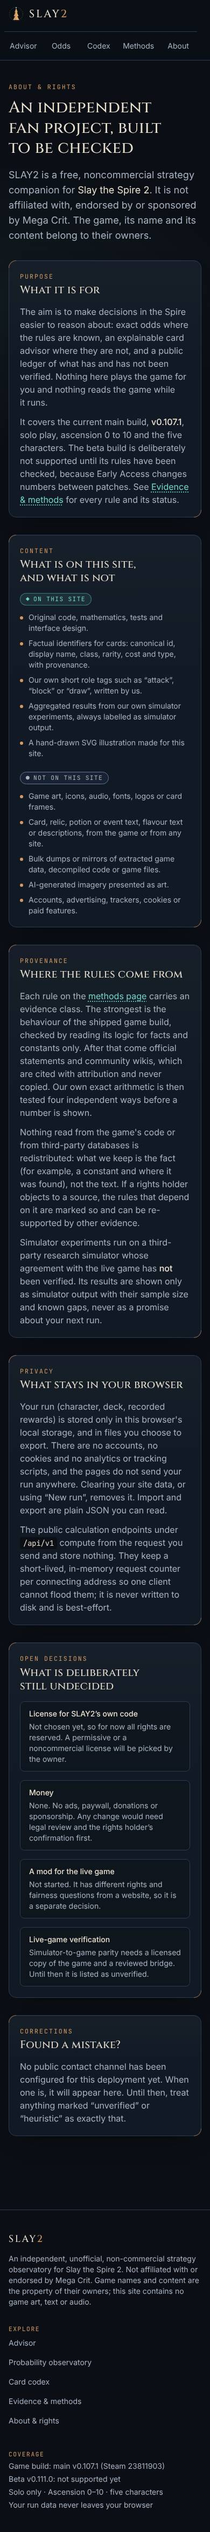
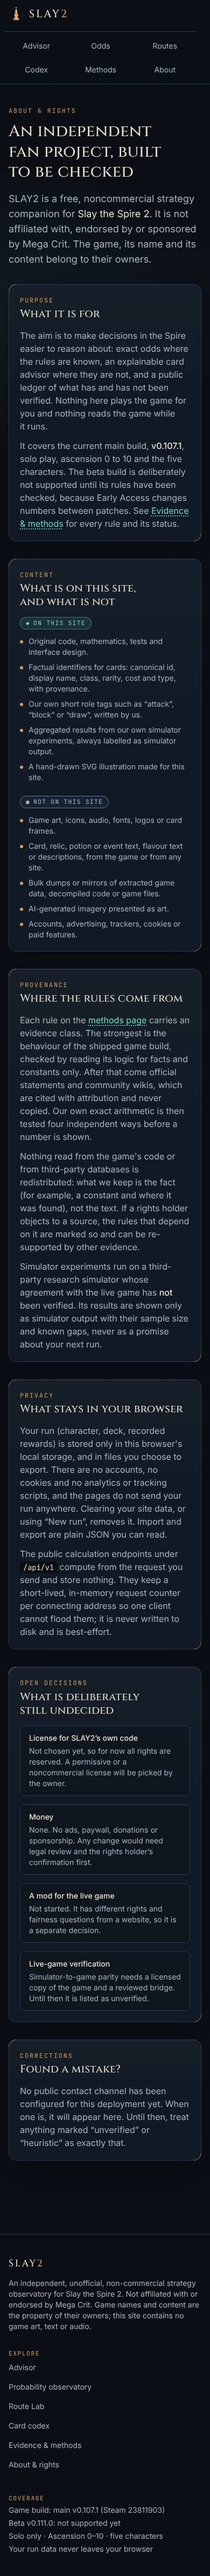
docs: production screenshots of the final UI (Route Lab added; the two long pages from the top only, 2.8 MB in all instead of 4.4 MB); status with the browser-suite counts
Claude-Session: https://claude.ai/code/session_01RqMSFQo8B4Ec4zNvTUumL3

diff --git a/docs/STATUS.md b/docs/STATUS.md
@@ -34,7 +34,7 @@
 | Suite | Command | Result |
 |---|---|---|
 | TypeScript, all packages + web | `pnpm check` (typecheck, lint, prettier, tests, production build) | green: game-schema 6, game-data 13, odds 100, decision 19, web 198 = **336 tests** (adds the route engine with its oracle cases and brute force, the route calculator's limits, the shorthand parser, the measured-value helpers, the simulation-pick port checked against 80 golden cases from the Python policy, the wins gate of the exporter, the comparison endpoint) |
-| End to end on the production server (`next start`), desktop + mobile, axe WCAG 2.2 AA | `pnpm --filter @slay2/web e2e` | landing, odds, advisor journey incl. the simulated-runs second opinion (every class is checked against what the shipped data says about it: Ironclad and Silent give the opinion, the others say why they do not), the scripted visitor journey, codex (measured value tile and sort), methods (card-value panel), about, 404, navigation, security headers: Route Lab (22 tests: example, typing, link persistence, hidden counters, Poverty, impossible histories, exact fractions, axe, overflow); layout stability (20: the shift of each page under a slow network, the server-drawn advisor), a width sweep from 320 to 1280 px (59: sideways scroll, cut-off text, the header with a saved run), no-JavaScript (2); the whole suite (266 cases, of which 59 are the width sweep that runs in the mobile project only, so 207 run) passes on the final build in a clean checkout and in CI (3.5 min) |
+| End to end on the production server (`next start`), desktop + mobile, axe WCAG 2.2 AA | `pnpm --filter @slay2/web e2e` | landing, odds, advisor journey incl. the simulated-runs second opinion (every class is checked against what the shipped data says about it: Ironclad and Silent give the opinion, the others say why they do not), the scripted visitor journey, codex (measured value tile and sort), methods (card-value panel), about, 404, navigation, security headers: Route Lab (22 tests: example, typing, link persistence, hidden counters, Poverty, impossible histories, exact fractions, axe, overflow); layout stability (20: the shift of each page under a slow network, the server-drawn advisor), a width sweep from 320 to 1280 px (84: sideways scroll, cut-off text, the header with a saved run, every class selected), rich states and enlarged text (42), no-JavaScript (2), privacy (1: one origin, no cookies, no request that carries data), the link-preview image (1); the whole suite (404 cases, of which 126 are the sweeps that run in the mobile project only, so 278 run) passes on the final build in a clean checkout (274 of 400 run at `85610d0`; the privacy and preview cases were added after) and in CI |
 | Python research harness | `PYTHONPATH=sim python -m pytest sim/tests` | **185 passed, 1 strict xfail** (the documented A10 Double Boss gap), 458 s on a loaded machine; includes regression tests that replay committed batches seed by seed, the win audit, the v2 seed manifest, the tuning tool, card values and `rules_v2`; the pure layout tests run in CI, the torch/simulator tests skip there |
 | Continuous integration | `.github/workflows/ci.yml` (`web`, `e2e`, `sim` jobs) | all three jobs green on pull request #4 (`60c8b1f`: `web` 1 min, `e2e` 2 min, `sim` 14 s). CI runs on pull requests and on `main` only (a branch push with an open pull request used to run it twice), and GitHub Actions is free for the repository now that it is public; for about an hour (07:41 to 08:12 UTC) jobs failed to start at all, which is why the pull request showed red marks that are not test failures (finding 18) |
 
